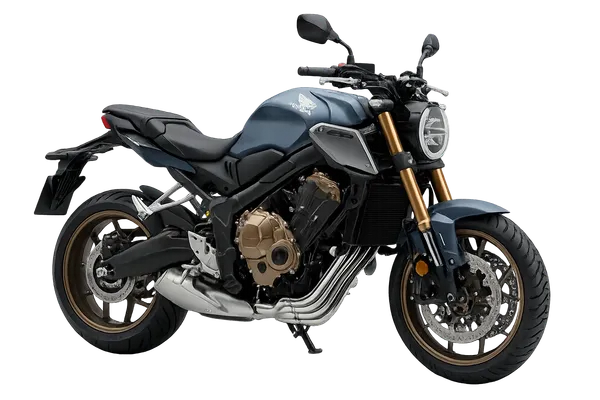
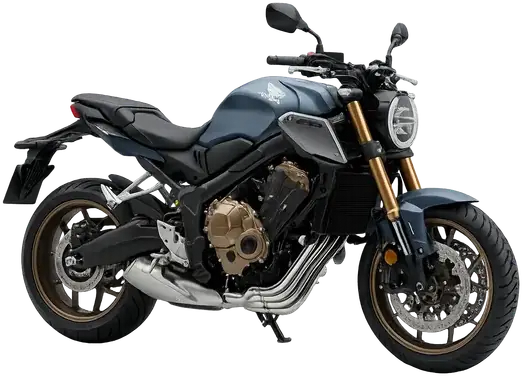
fix(049): la moto 2T deja de verse chica y la camioneta mira al mismo lado
DOS COSAS, Y LA PRIMERA TENÍA UNA CAUSA CONCRETA

La moto de 2T se veía notoriamente más chica que las otras dos. No era la foto:
era el lienzo. Venía en 600x600 con la moto ocupando solo la banda del medio,
o sea 159px de alto puro transparente.

Con `object-fit: contain` el alto de la ranura es el límite, así que ese aire de
más se traduce directo en una moto dibujada más chica. Medido, sobre la caja
útil de escritorio (249x134):

  antes   moto2t usaba el 73% del alto disponible
  ahora   las tres usan el 100%

Se recortó el margen transparente de las dos motos. La de 4T casi no tenía
—24px— pero se hizo igual, para que las tres se comporten de la misma forma y
no haya que acordarse de cuál tiene aire y cuál no.

De paso pesan menos: moto2t de 80 a 71 KB y moto4t de 64 a 54 KB.

LA CAMIONETA, ESPEJADA

Las dos motos miran a la derecha y ella miraba a la izquierda. Ahora las tres
apuntan al mismo lado.

Se espeja el ARCHIVO y no con CSS, y eso importa: `.card:hover .image-top img`
ya usa `transform` para el zoom al pasar el mouse. Un `transform: scaleX(-1)` en
la imagen se lo comería el hover y la camioneta se daría vuelta sola al pasar
el cursor.

EL LOGO DE FORD QUEDA ESPEJADO, y se dejó así a propósito. Mide 35x10px en el
archivo, o sea que en la tarjeta se dibuja a unos 11x3 píxeles —y todavía por
debajo del velo azul—. A ese tamaño no se distingue de una mancha. Corregirlo
exige pegar un parche sobre la parrilla, y una costura mal puesta se vería
[…]

diff --git a/Frontend/index.html b/Frontend/index.html
@@ -98,14 +98,14 @@
     -->
     <link rel="icon" type="image/png" sizes="192x192" href="/favicon.png" />
     <link rel="apple-touch-icon" sizes="180x180" href="/apple-touch-icon.png" />
-    <link rel="stylesheet" href="/styles.css?v=64" />
+    <link rel="stylesheet" href="/styles.css?v=65" />
     <!--
       Tailwind servido desde el propio sitio, ya no desde el CDN de un tercero (la
       procedencia del archivo está en la cabecera de assets/vendor/tailwind.js).
       El orden importa: la configuración necesita que el compilador ya esté cargado.
     -->
-    <script src="/assets/vendor/tailwind.js?v=64"></script>
-    <script src="/assets/vendor/tailwind-config.js?v=64"></script>
+    <script src="/assets/vendor/tailwind.js?v=65"></script>
+    <script src="/assets/vendor/tailwind-config.js?v=65"></script>
     <!--
       Ficha del negocio para Google, en JSON-LD.
 
@@ -256,17 +256,17 @@
     </footer>
 
     <!-- Módulos de la aplicación -->
-    <script src="/data.js?v=64"></script>
-    <script src="/utils.js?v=64"></script>
-    <script src="/pages/home.js?v=64"></script>
-    <script src="/pages/recomendaciones.js?v=64"></script>
-    <script src="/pages/tarifas.js?v=64"></script>
-    <script src="/pages/faq.js?v=64"></script>
-    <script src="/pages/schedule.js?v=64"></script>
-    <script src="/pages/contact.js?v=64"></script>
-    <script src="/pages/admin.js?v=64"></script>
-    <script src="/pages/admin-login.js?v=64"></script>
-    <script src="/chatbot.js?v=64"></script>
-    <script src="/app.js?v=64"></script>
+    <script src="/data.js?v=65"></script>
+    <script src="/utils.js?v=65"></script>
+    <script src="/pages/home.js?v=65"></script>
+    <script src="/pages/recomendaciones.js?v=65"></script>
+    <script src="/pages/tarifas.js?v=65"></script>
+    <script src="/pages/faq.js?v=65"></script>
+    <script src="/pages/schedule.js?v=65"></script>
+    <script src="/pages/contact.js?v=65"></script>
+    <script src="/pages/admin.js?v=65"></script>
+    <script src="/pages/admin-login.js?v=65"></script>
+    <script src="/chatbot.js?v=65"></script>
+    <script src="/app.js?v=65"></script>
   </body>
 </html>
